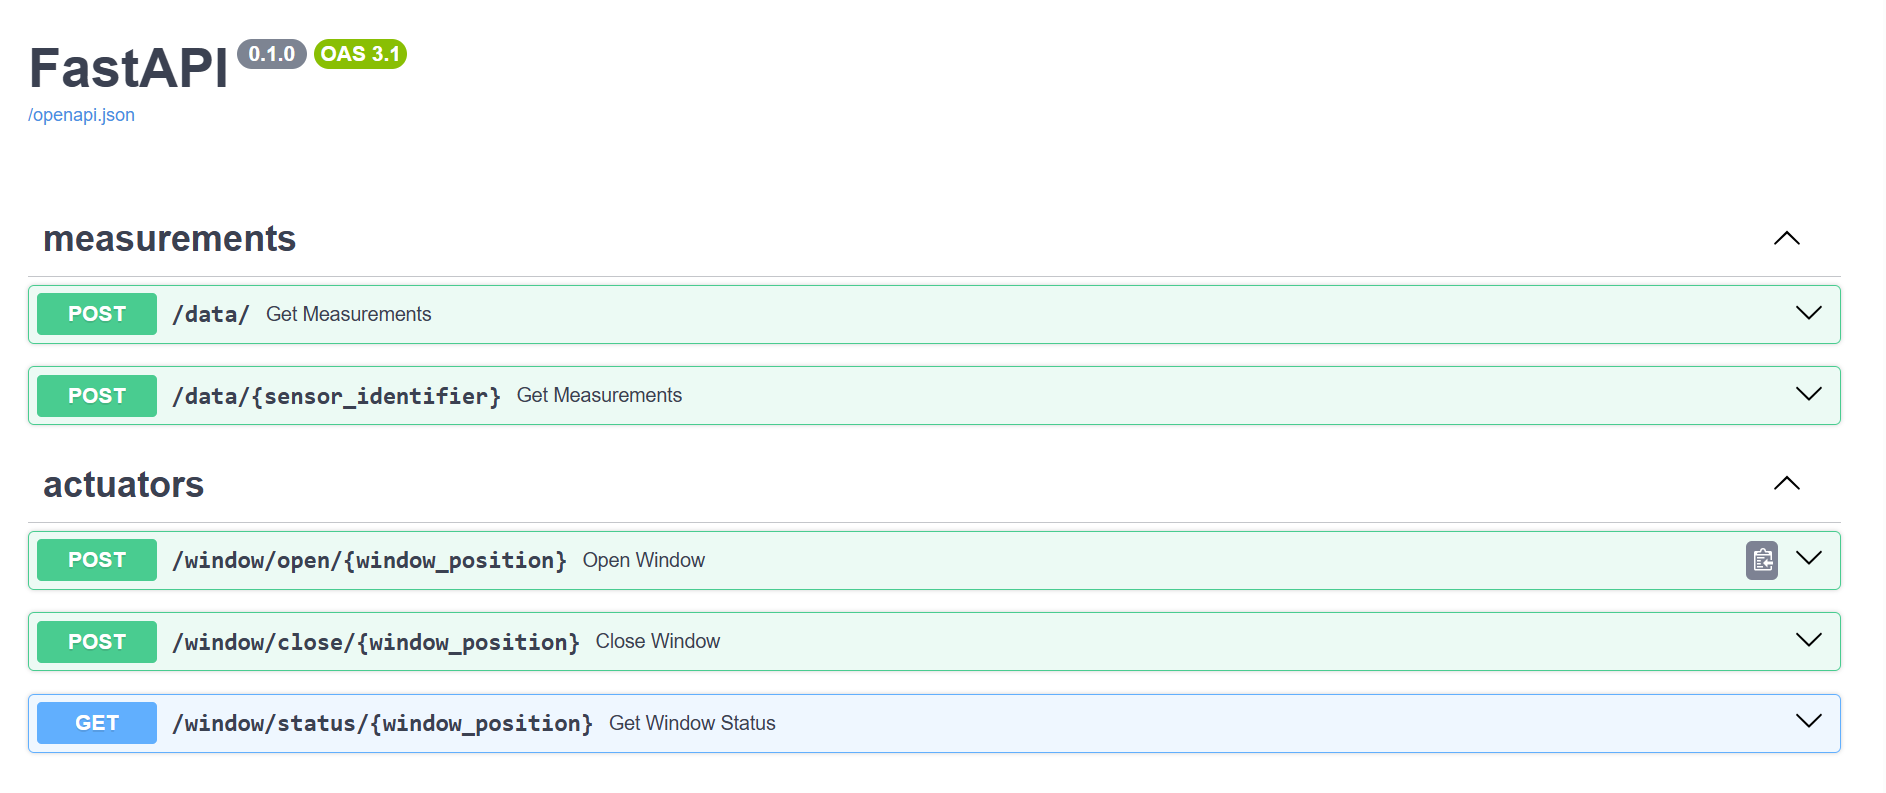
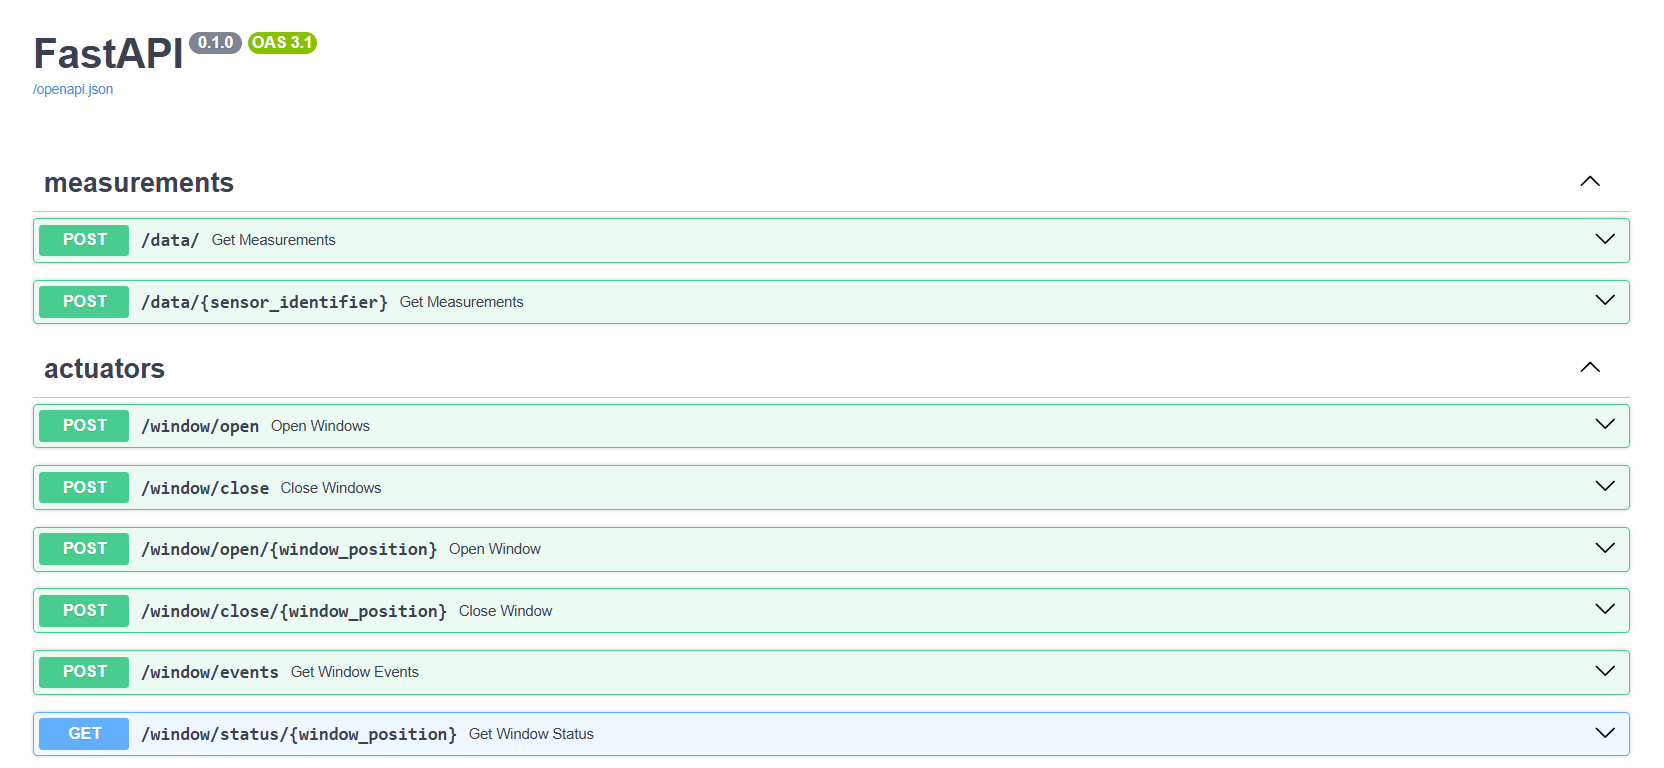
feat: Readme overhaul (#52)
* Added new screenshots from frontend

* Inserted Frontend into Readme

* Service Interaction Graphics

* Added frontend/program operator explanations

diff --git a/README.md b/README.md
@@ -1,10 +1,16 @@
 # 🧠🌱 Raspberry Pi Greenhouse Automations
 
-This smart home automation project represents the codebase to collect physical data inside my little garden greenhouse from multiple sensors connected to a Raspberry Pi 4 — including temperature, humidity, air pressure and soil moisture. In addition, linear actuators are controllable to open and close the windows remotely via API.
+This smart home automation project represents the codebase to collect physical data inside my little garden greenhouse from multiple sensors connected to a Raspberry Pi 4 — including temperature, humidity, air pressure and soil moisture. In addition, linear actuators are controllable to open and close the windows remotely via API or my custom web dashboard.
 
-All sensor readings are periodically collected, logged, displayed inside a little self-made box for the raspi as well as stored inside an InfluxDB cloud instance. This allows both real time and historical data analysis on the measurements:
+All sensor readings are periodically collected, logged, displayed inside a little self-made box for the raspi as well as stored inside an InfluxDB cloud instance. This allows both real time and historical data analysis on the measurements inside the frontend:
 
-![InfluxDB dashboard (this one from winter time...)](images/influxdb_dashboard.png?raw=true "Sensor Monitoring")
+![Frontend dashboard (this one from winter time...)](images/frontend_dashboard.png?raw=true "Sensor Monitoring")
+
+![InfluxDB dashboard](images/influxdb_dashboard.png?raw=true "Influx Monitoring")
+
+The window events (opening/closing) are monitor- and controllable in the "Control Center" section in the frontend. I'm also collecting the timestamps of the window calls to reproduce the last openings times. The window calls are done either manually via the dashboard or the program operator service which is responsible for automatically open/close events based on pre defined thresholds for the inside temperature.
+
+![Control Center dashboard](images/frontend_control_center.png?raw=true "Control Center")
 
 In addition, a fastapi instance is implemented to fetch the sensor readings in a specific timeframe from the InfluxDB as well as opening and closing of the windows.
 
@@ -40,7 +46,7 @@ Another cool feature is the lightning in the night since different leds indicate
     <img src="images/night_greenhouse.jpg" alt="Greenhouse at night" width="300"/>
 </p>
 
-The windows are opened and closed by 12V linear actuators which are connected to 2-channel-relays that are controlled by the pi and via the API or via scripts.
+The windows are opened and closed by 12V linear actuators which are connected with a H-Bridge to 2-channel-relays that are controlled by the pi and via the API or via scripts.
 
 <p align="center">
     <img src="images/window_open.jpg" alt="Opened window by actuator" width="300"/>
@@ -95,6 +101,12 @@ The windows are opened and closed by 12V linear actuators which are connected to
 The pi runs on ubuntu 25.10 lts (desktop version) and Python 3.13. Other ubuntu version should also work, just select one that suites best from the [Raspberry Pi Imager](https://www.raspberrypi.com/software/). The OS setup for the sensors (i2cdetect, config.txt lines, modules etc.) are readable in the specific documentations.
 
 The repository contains poetry for dependency management and docker/docker-compose to run the application inside a container on the pi. The models and settings are wrapped by pydantic models and the envrionment variables are set either inside the docker files or (for sensitive informations like the influxdb connection details) inside an .env file. For local development, I use vscode and a virtual environment managed with poetry.
+
+The data pipeline starts at the sensors, whereas the sensor_reader container is responsible for reading the data from the hardware, writing them into the InfluxDB and displaying the values frequently on the display inside the greenhouse. In addition, a lightweight SQLite DB is running on the pi to log the opening/closing events of the windows. The API is then structured to query the databases and provides endpoints to call on the windows or fetch data series, while big requests (>1 day, minute interval) are aggregated to ensure smooth and fast returns. The API is called from the frontend or by the program operator, which runs an asynchronous worker every 15 minutes to fetch the latest temperature inside datapoints and act on the window endpoints if required (thresholds defined as environment variables).
+
+<p align="center">
+    <img src="images/service_interactions.png" alt="Interaction of the services" width="300"/>
+</p>
 
 ## 🔛 (Virtual) environment setup
 
